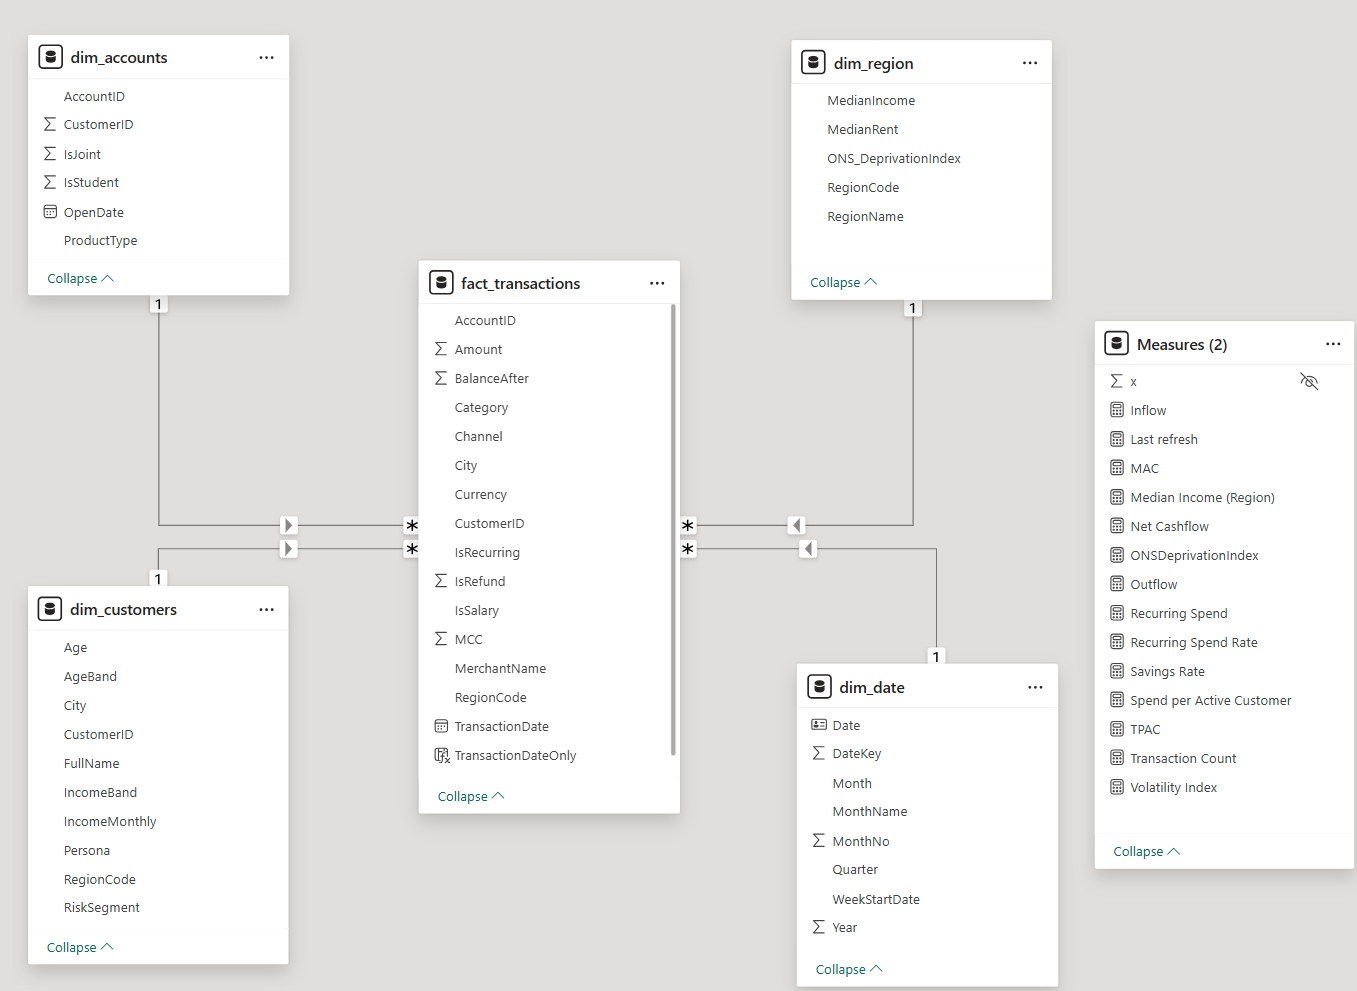
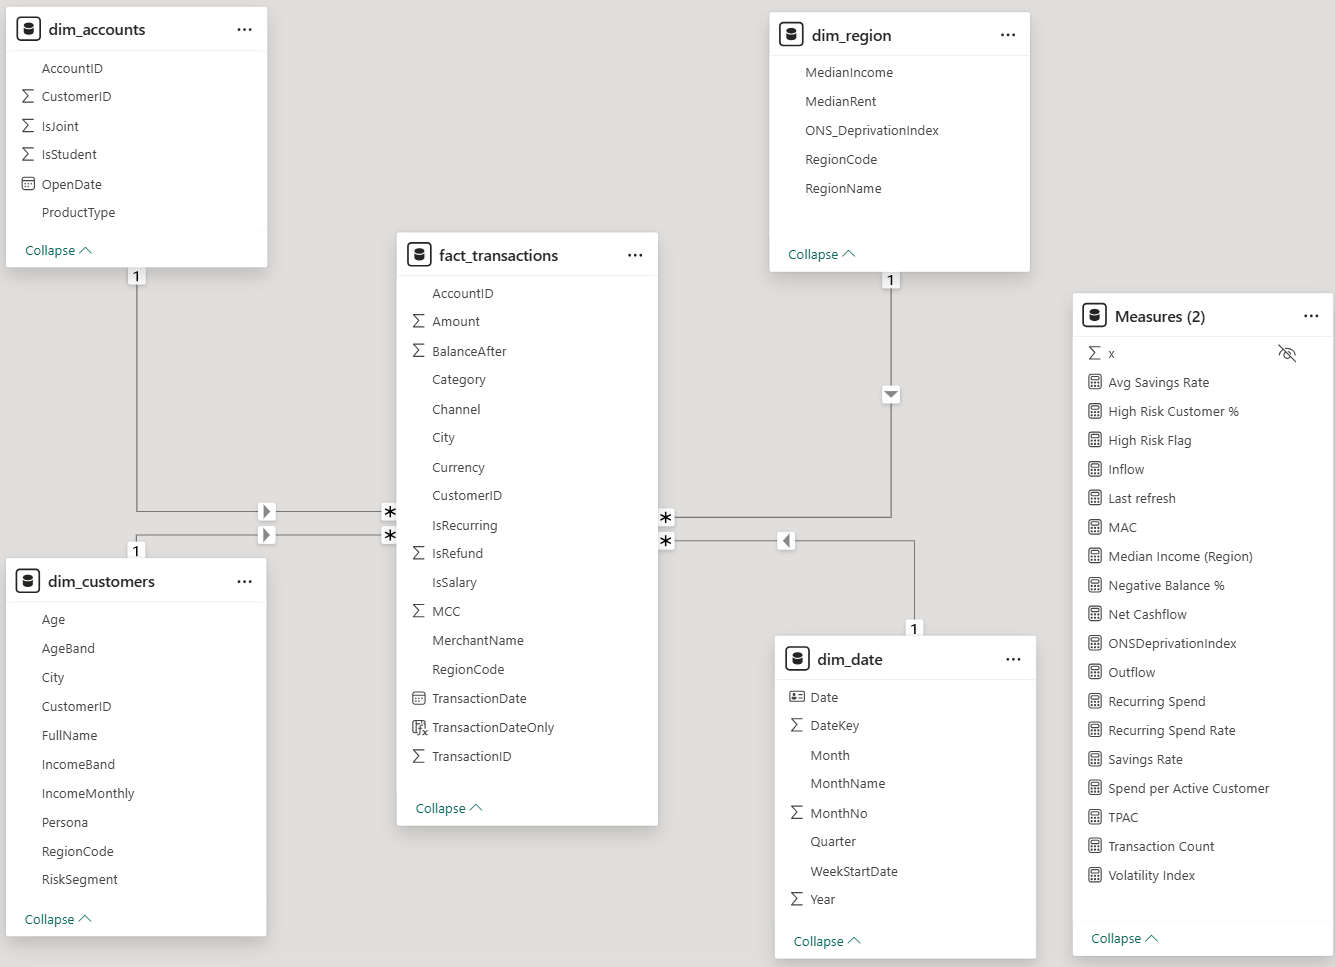
update README.md

diff --git a/README.md b/README.md
@@ -1,22 +1,28 @@
 # UK Open Banking Data Engineering Project (Azure End-to-End)
 
-## 📌 Project Overview
+## Abstract
+Hi, I'm Dang
+An aspiring data engineer who loves fintech.
+This project is a fun yet practical dive into building real-world data pipelines inspired by financial systems. Stay tune with me till the end!!!
 
-This project demonstrates an **end-to-end data engineering pipeline on Azure**, designed to ingest, transform, model, and serve UK Open Banking–style transaction data for downstream analytics and reporting.
+## Project Overview
 
-The focus of this project is **data engineering best practices**, including:
-- cloud-native ingestion
-- lakehouse-style storage
-- transformation logic
-- star-schema modeling
-- automated refresh patterns
-- analytics-ready data serving
+This project demonstrates an **end-to-end data engineering pipeline on Microsoft Azure**, designed to ingest, transform, model, and serve UK Open Banking–style transaction data for downstream analytics and reporting.
 
-A Power BI report is included **only as a downstream consumer** to validate data quality and usability.
+The primary focus of this project is **data engineering best practices**, including:
+
+- Cloud-native data ingestion
+- Lakehouse-style data zoning (Raw → Curated)
+- Deterministic transformation logic
+- Analytics-oriented star schema modelling
+- Type-safe data serving
+- Downstream consumption enablement
+
+A Power BI report is included **only as a downstream consumer** to validate data quality, model usability, and analytical readiness.
 
 ---
 
-## 🏗 High-Level Architecture
+## High-Level Architecture
 
 **Pipeline flow**
 
@@ -34,149 +40,209 @@ Azure SQL Database (Star Schema)
 Power BI Desktop (Semantic Model & Reporting)
 ```
 
-📌 **Design philosophy**
+**Design philosophy**
+
 - Raw data is immutable
-- Transformations are reproducible
+- Transformations are reproducible and deterministic
+- Business logic is applied upstream
 - SQL layer is analytics-ready
-- BI layer contains no heavy logic
+- BI layer remains lightweight and semantic-only
 
 ---
 
-## 🧱 Data Architecture (Star Schema)
+## Data Architecture (Star Schema)
+
+The data warehouse follows a **classic dimensional (Kimball-style) star schema**, optimised for analytical workloads.
 
 ### Fact Table
-- **fact_transactions**
-  - TransactionID
-  - AccountID
-  - CustomerID
-  - TransactionDate
-  - Amount
-  - BalanceAfter
-  - Category
-  - Channel
-  - IsRecurring
-  - IsSalary
-  - IsRefund
-  - RegionCode
+
+**fact_transactions**  
+Grain: **one row per financial transaction**
+
+- TransactionID
+- AccountID
+- CustomerID
+- TransactionDate
+- Amount
+- BalanceAfter
+- Currency
+- MerchantName
+- MCC
+- City
+- Category
+- Channel
+- IsRecurring
+- IsSalary
+- IsRefund
+- RegionCode
 
 ### Dimension Tables
-- **dim_customers** – demographics, persona, income bands
-- **dim_accounts** – product type, student/joint flags
-- **dim_region** – ONS deprivation index, median income & rent
-- **dim_date** – calendar attributes (derived in Power BI)
 
-📷 **Star Schema Model**
+- **dim_customers**
+  - Customer demographics
+  - Persona classification (student, grad, family, contractor)
+  - Income bands
+- **dim_accounts**
+  - Account type
+  - Student / joint account flags
+- **dim_region**
+  - ONS Deprivation Index
+  - Median income
+  - Median rent
+- **dim_date**
+  - Calendar attributes (derived in Power BI)
+
+**Star Schema Model**
+
 ![Star Schema](docs/images/star_schema.png)
 
 ---
 
-## 🔄 Data Engineering Pipeline
+## Data Engineering Pipeline
 
-### 1⃣ Data Generation (Synthetic)
-- Python-based generator simulating UK Open Banking patterns
-- Monthly salary cycles
-- Subscription / recurring spend
-- Regional cost-of-living variation
-- Customer personas (student, grad, family, contractor)
+### 1. Synthetic Data Generation
 
-Generated files:
-- customers.csv
-- accounts.csv
-- transactions_YYYYMM.csv
-- ons_region.csv
+- Python-based data generator
+- Simulates UK Open Banking behaviour:
+  - Monthly salary inflows
+  - Subscription-based recurring spend
+  - Regional cost-of-living variation
+  - Realistic transaction frequency distributions
+- Customer personas embedded at source
+
+Generated datasets:
+
+- `customers.csv`
+- `accounts.csv`
+- `transactions_YYYYMM.csv`
+- `region_enrichment.csv`
+
+**Purpose:**
+Provides controlled, repeatable data to validate pipeline logic and modelling decisions.
 
 ---
 
-### 2⃣ Raw Data Ingestion (ADF)
+### 2. Raw Data Ingestion (Azure Data Factory)
+
 - Azure Data Factory Copy pipelines
 - Parameterised ingestion by month
-- Stored in ADLS Gen2 `/raw/` zone
-- Schema-on-read approach
+- Files landed in ADLS Gen2 `/raw/` zone
+- Schema-on-read ingestion pattern
 
-📌 **Techniques demonstrated**
+**Engineering techniques demonstrated**
+
 - Dataset parameters
 - ForEach loops
 - Dynamic file paths
-- Metadata-driven ingestion
+- Metadata-driven ingestion design
+- No schema enforcement at raw layer
 
 ---
 
-### 3⃣ Data Transformation (ADF Mapping Data Flows)
+### 3. Data Transformation (ADF Mapping Data Flows)
 
-Transformations include:
-- Type casting (string → numeric / boolean)
-- Business rule derivation:
+Transformations applied in the **curated layer**:
+
+- Explicit type casting (string → INT / DECIMAL / BIT)
+- Boolean standardisation (`true` / `false`)
+- Derived business flags:
   - `IsSalary`
   - `IsRecurring`
-- Standardised category mapping
-- Region code normalization
-- Data quality checks (nulls, invalid values)
+  - `IsRefund`
+- Category standardisation
+- Region code normalisation
+- Basic data quality validation:
+  - Null handling
+  - Invalid value filtering
 
 Curated outputs written to:
+
 - `/curated/customers/`
 - `/curated/accounts/`
 - `/curated/transactions/`
-- `/curated/region/`
+- `/curated/ons/`
 
-📌 **Design choice**
-All business logic lives **before SQL**, keeping the warehouse clean.
+**Design choice**
+
+All transformation and business logic is applied **before the warehouse**, ensuring the SQL layer remains clean, deterministic, and reusable.
 
 ---
 
-### 4⃣ Data Serving Layer (Azure SQL Database)
+### 4. Data Serving Layer (Azure SQL Database)
 
-- Star schema implemented in Azure SQL
-- Fact & dimension tables pre-created
-- Data loaded via ADF Copy activities
-- Type-safe schema enforcement (INT, DECIMAL, BIT)
+- Azure SQL Database used as the analytical serving layer
+- Star schema implemented with pre-defined tables
+- Data loaded from curated zone via ADF Copy activities
+- Strict schema enforcement using native SQL types
 
-Example engineering considerations:
-- Boolean handling from CSV (`true/false` → BIT)
+**Engineering considerations**
+
+- CSV booleans (`true/false`) converted to `BIT`
+- Numeric precision enforced (`DECIMAL(10,2)`)
 - Referential integrity via surrogate joins
-- Warehouse-ready grain definition
+- Fact grain carefully preserved
+- Warehouse optimised for BI-style queries
 
 ---
 
-### 5⃣ Analytics Consumption (Power BI Desktop)
+### 5. Analytics Consumption (Power BI Desktop)
 
-Power BI is used to:
-- Validate schema usability
-- Confirm data correctness
-- Demonstrate downstream analytics enablement
+Power BI Desktop is used **only as a consumer** of the engineered data model.
 
-📌 **Important**
-No heavy transformation logic in Power BI.
-All metrics are computed from the engineered model.
+Its purpose is to:
 
-📷 **Executive Overview Example**
+- Validate dimensional design
+- Confirm transformation correctness
+- Demonstrate analytical usability
+
+**Important**
+
+- No heavy transformations in Power BI
+- No data cleansing in the BI layer
+- All metrics calculated from the engineered star schema
+
+**Executive Overview**
+
 ![Executive Overview](docs/images/executive_overview.png)
 
+**Customer Behaviour**
+
+![Customer Behaviour](docs/images/customer_behaviour.png)
+
+**Finacial Risk & Stability**
+
+![Finacial Risk & Stability](docs/images/financial_risk_stability.png)
+
 ---
 
-## 📊 Example Metrics Enabled
+## Example Metrics Enabled
+
+The engineered model supports:
 
 - Monthly Active Customers (MAC)
 - Transactions per Active Customer (TPAC)
 - Savings Rate
 - Recurring Spend Ratio
 - Spend Volatility Index
-- Regional affordability comparison (ONS overlay)
+- Regional affordability analysis (ONS overlay)
 - Customer behavioural segmentation
-
+- Financial risk indicators
+- etc (see the Measures table above)
 ---
 
-## 🔐 Governance & Engineering Best Practices
+## Governance & Engineering Best Practices
 
 - Clear Raw vs Curated zone separation
-- Schema enforcement at SQL layer
-- Reproducible transformations
+- Schema-on-read → schema-on-write progression
+- Deterministic, reproducible transformations
+- Type-safe warehouse layer
 - No hardcoded file paths
 - Analytics-ready star schema
 - BI layer isolated from engineering logic
 
 ---
 
-## 🧰 Tech Stack
+## Tech Stack
 
 - **Azure Data Factory** – orchestration & transformation
 - **Azure Data Lake Storage Gen2** – raw & curated zones
@@ -187,44 +253,21 @@ All metrics are computed from the engineered model.
 
 ---
 
-<!-- ## 📁 Repository Structure
+## Key Takeaway
 
-```
-.
-├── adf/
-|   ├── datasets/
-│   ├── pipelines/
-│   └── dataflows/
-├── sql_scripts/
-│   ├── dim_tables.sql
-│   └── fact_tables.sql
-├── powerbi/
-│   └── OpenBankingInsights.pbix
-├── images/
-│   ├── star_schema.png
-│   └── executive_overview.png
-└── README.md
-```
-
---- -->
-
-## 🎯 Key Takeaway
-
-This project showcases how **raw financial data can be engineered into an analytics-ready warehouse** using Azure-native tools.
+This project demonstrates how **raw financial transaction data can be engineered into an analytics-ready warehouse** using Azure-native services.
 
 The emphasis is on:
-- data pipeline design
-- transformation logic
-- schema modeling
-- downstream usability
 
-Please note: Power BI serves only as proof that the engineered data can support real business analytics.
+- pipeline design
+- transformation logic
+- schema modelling
+- downstream usability
 
 ---
 
-## 📌 Author
+## Author
 
 **Dang Vu**  
 Aspiring Data Engineer / Data Scientist  
 UK-based | Azure | SQL | Data Engineering
-
